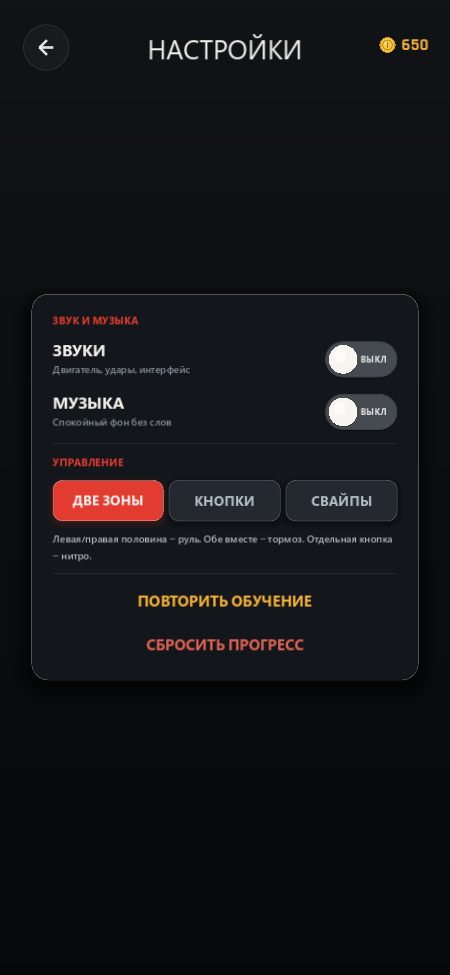
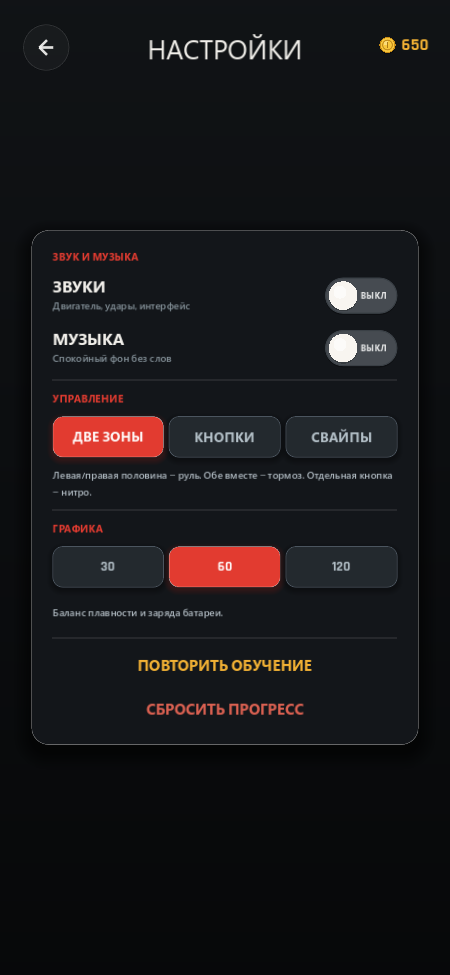
settings: 30/60/120 FPS cap, persisted and applied live (0.5.4)
Adds a ГРАФИКА section with 30/60/120 options. The choice is stored in the config file (display/fps), applied on startup via Engine.max_fps, and takes effect immediately when changed from the settings screen or from the pause menu.

Changed region(s): [[0.0933, 0.2462, 0.9022, 0.7385], [0.8711, 0.4923, 0.9022, 0.5231]]

diff --git a/README.md b/README.md
@@ -1,10 +1,10 @@
 # SLIPSTREAM
 
-**Аркадный трафик-рейсер для Android · книжная ориентация · версия 0.5.3**
+**Аркадный трафик-рейсер для Android · книжная ориентация · версия 0.5.4**
 
 [![Godot](https://img.shields.io/badge/Godot-4.7.2-478cbf?logo=godotengine&logoColor=white)](https://godotengine.org/)
 [![Android](https://img.shields.io/badge/Android-7.0%2B-3ddc84?logo=android&logoColor=white)](https://www.android.com/)
-[![APK](https://img.shields.io/badge/APK-0.5.3-e23b30)](../../releases/latest)
+[![APK](https://img.shields.io/badge/APK-0.5.4-e23b30)](../../releases/latest)
 
 [**Скачать APK**](../../releases/latest) · [Скриншоты](#скриншоты) · [Управление](#управление) · [Сборка](#сборка-apk)
 
@@ -46,13 +46,13 @@
 
 ## APK
 
-**`Slipstream-0.5.3.apk`** — готовый файл для телефона (27,3 МБ).
+**`Slipstream-0.5.4.apk`** — готовый файл для телефона (27,3 МБ).
 Лежит в разделе [**Releases**](../../releases/latest).
 
 | | |
 |---|---|
 | Пакет | `com.slipstream.game` |
-| Версия | 0.5.3 (versionCode 11) |
+| Версия | 0.5.4 (versionCode 12) |
 | Android | 7.0+ (minSdk 24), targetSdk 36 |
 | Архитектура | arm64-v8a (64-бит) |
 | Подпись | debug-ключом проекта; обновления должны быть подписаны тем же ключом |
@@ -67,7 +67,7 @@
 Если подключён по USB с включённой отладкой:
 
 ```powershell
-adb install -r Slipstream-0.5.3.apk
+adb install -r Slipstream-0.5.4.apk
 ```
 
 ## Возможности
@@ -229,7 +229,7 @@ $godot = "C:\path\to\Godot_v4.7.2-stable_win64_console.exe"
 
 # релизная сборка (ключ задаётся в export_presets.cfg / диалоге экспорта)
 New-Item -ItemType Directory -Force build | Out-Null
-& $godot --headless --path godot --export-release "Android" "$PWD\build\Slipstream-0.5.3.apk"
+& $godot --headless --path godot --export-release "Android" "$PWD\build\Slipstream-0.5.4.apk"
 ```
 
 Путь экспорта передавай **сразу после** имени пресета и обязательно с расширением
@@ -239,13 +239,13 @@ New-Item -ItemType Directory -Force build | Out-Null
 
 ```powershell
 # пакет, версия, minSdk, arm64
-aapt2 dump badging Slipstream-0.5.3.apk
+aapt2 dump badging Slipstream-0.5.4.apk
 
 # подпись и схемы v1/v2/v3
-apksigner verify --verbose --print-certs Slipstream-0.5.3.apk
+apksigner verify --verbose --print-certs Slipstream-0.5.4.apk
 
 # выравнивание
-zipalign -c 4 Slipstream-0.5.3.apk
+zipalign -c 4 Slipstream-0.5.4.apk
 ```
 
 Иконки: `godot/icons/icon_192.png`, `icon_fg_432.png`, `icon_bg_432.png` (адаптивная иконка).
@@ -260,7 +260,7 @@ Slipstream/
 │   └── screenshots/            # скриншоты для README
 └── godot/                      # проект Godot 4.7.2
     ├── project.godot           # холст 720×1560, GL Compatibility, автолоад Sfx
-    ├── export_presets.cfg      # Android-пресет, версия 0.5.3
+    ├── export_presets.cfg      # Android-пресет, версия 0.5.4
     ├── scenes/Main.tscn
     ├── scripts/
     │   ├── main.gd             # экраны, HUD, гараж, настройки, сохранения, ввод
@@ -283,6 +283,7 @@ Slipstream/
 
 ## Дальше
 
+- **0.5.4** — настройка частоты кадров: 30/60/120 FPS в экране настроек, выбор сохраняется и применяется сразу (30 — экономия батареи, 60 — по умолчанию, 120 — для дисплеев 120 Гц).
 - **0.5.3** — трафик перестал быть одним перекрашенным седаном: в потоке едут хэтчбеки и седаны, кроссоверы с рейлингами, багажником и запасным колесом, спорткары с антикрылом, а рядом — фургоны, пикапы с грузом, грузовики с прицепами и автобусы. Кузов трафика больше не масштабируется под класс, поэтому нарисованная машина точно совпадает с хитбоксом и обгон впритирку считается по видимым габаритам. Антикрыло перерисовано в нейтральный карбон, а микродетали гаража включаются по флагу, а не по ширине превью.
 - **0.5.2** — визуальный пасс гаража: у каждого класса свой рисунок диска (сталь, литьё, магний, внедорожные, спорт, аэро) и цвет суппорта, хромированные пороги и ручки дверей, блики на стёклах и зеркалах, плавник на крыше (у фургона — вентиляция), лючок бензобака и порт зарядки, хром-насадки выхлопа с тёмным срезом, чёрные бамперы фургона и хром-ступенька пикапа, ореолы фар и детали фонарей, виниловая крыша у маскла и гиперкара. Микродетали рисуются только в гараже (ширина кузова > 140 px), поэтому трафик не получает лишних вызовов.
 - **0.5.1** — расширенный гараж: девять машин (фургон, кроссовер, пикап, электрокар), классовые фары и фонари, литые диски, кузовные детали.
